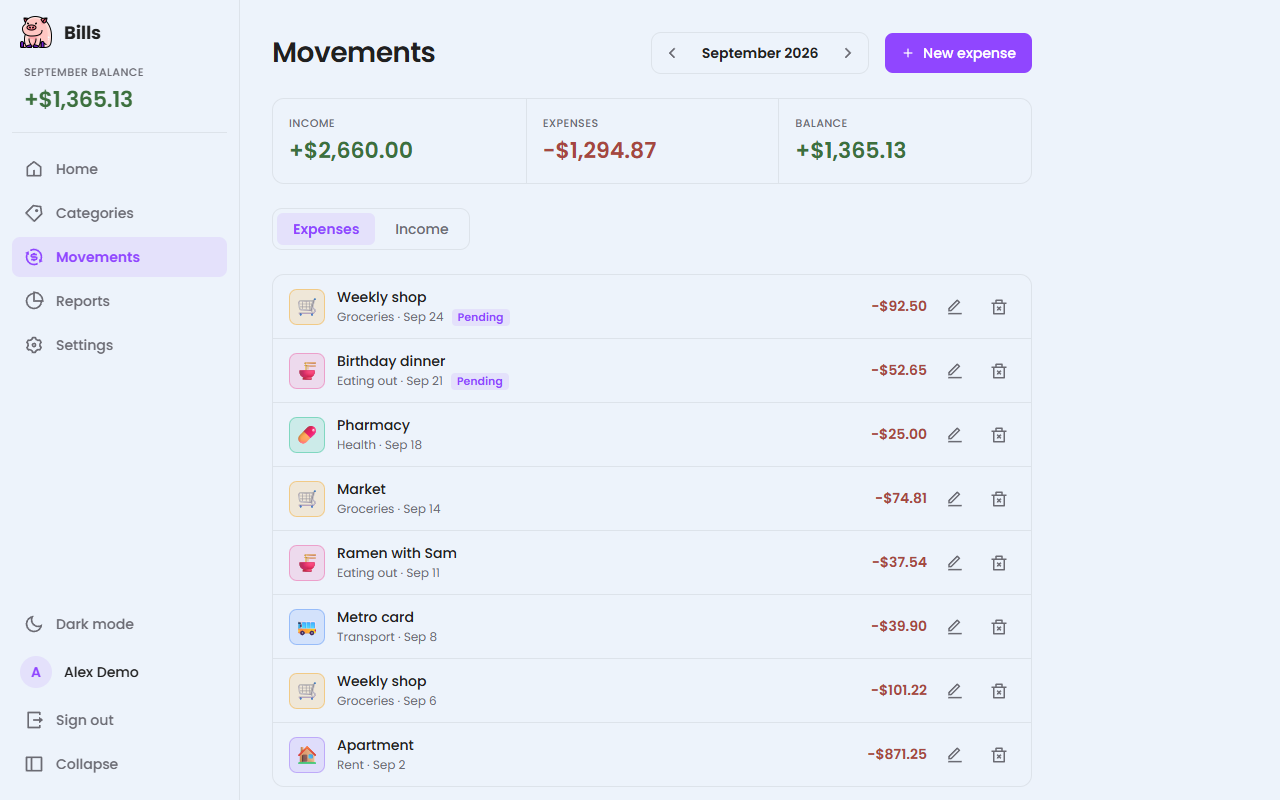
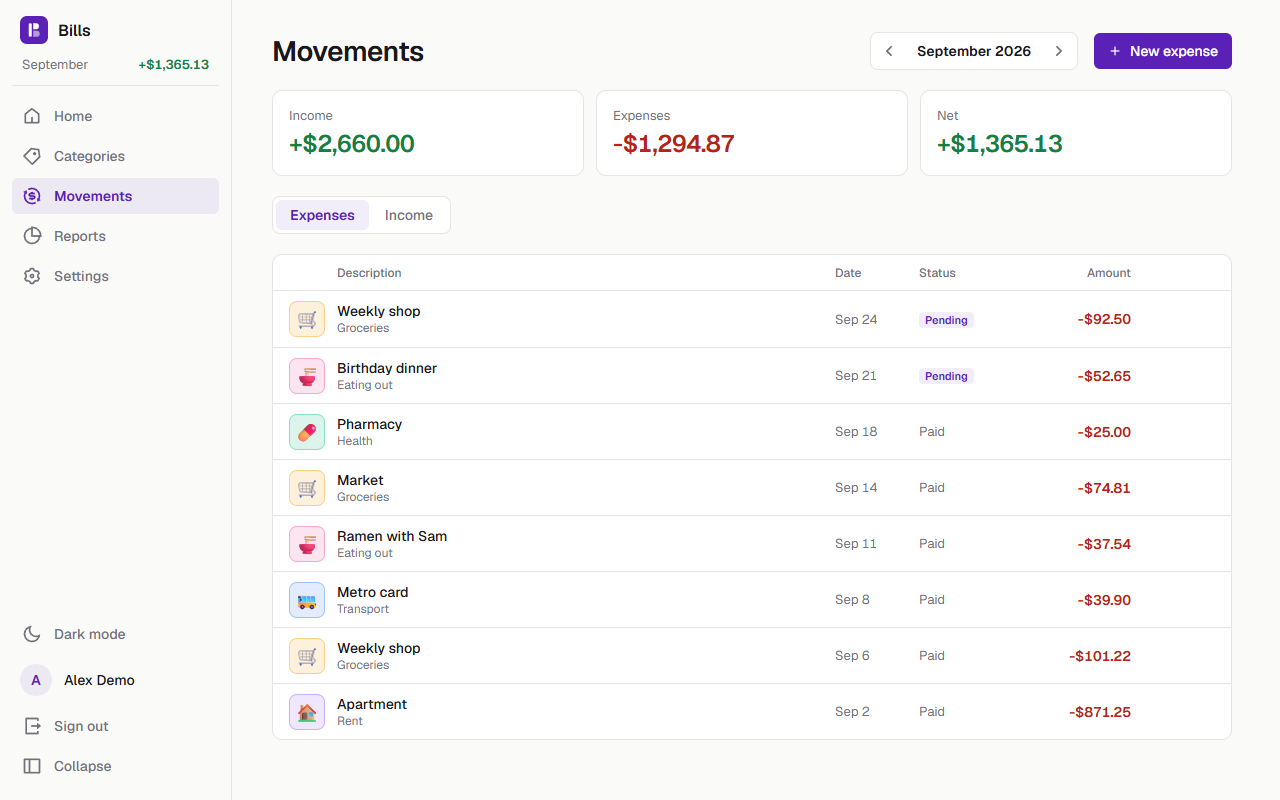
Refresh screenshots and features for the redesign

diff --git a/README.md b/README.md
@@ -9,8 +9,8 @@ A personal expense tracker: sign in with Google, organize your categories, log i
 | Movements | Reports |
 |---|---|
 | ![Movements by month](docs/screenshots/movements.png) | ![Reports: 6-month trend and breakdown by category](docs/screenshots/reports.png) |
-| **Settings** | **Sign in** |
-| ![Settings: name, currency, delete account](docs/screenshots/settings.png) | ![Sign-in page with feature carousel](docs/screenshots/login.png) |
+| **Categories** | **Settings** |
+| ![Categories grid with this month's totals](docs/screenshots/categories.png) | ![Settings: name, currency, appearance, delete account](docs/screenshots/settings.png) |
 
 <details>
 <summary>Dark theme</summary>
@@ -19,29 +19,37 @@ A personal expense tracker: sign in with Google, organize your categories, log i
 
 </details>
 
+<details>
+<summary>Sign in</summary>
+
+![Sign-in page with feature carousel](docs/screenshots/login.png)
+
+</details>
+
 <sub>Screenshots use demo data.</sub>
 
 ## Features
 
 - **Google sign-in** via Supabase Auth. Each account only sees its own data (Postgres row-level security).
-- **Home**: what's left of this month's income, a 6-month trend, recent movements and top categories.
-- **Categories** for income and expenses, with emoji and color.
-- **Movements** by month: amount, category, date, description, paid/pending. Monthly income, expense and balance totals.
+- **Home**: what's left of this month's income, this month's spending vs. last month day by day, recent movements, what's still **to pay** (settle it in one click) and top categories.
+- **Categories** for income and expenses, with emoji, color and this month's total.
+- **Movements** by month: amount, category, date, description, paid/pending. Monthly income, expense and net totals.
 - **Reports**: 6-month income vs. expense trend and a ranked breakdown by category, each with an accessible table view.
 - **Settings**: display name, currency (formats every amount), and self-service account deletion.
-- **Light / dark theme**, following the OS preference until you pick one; the choice syncs across devices.
+- **Appearance**: Light, Dark or System (follows the OS live); light/dark choices sync across devices.
+- **Motion** that respects the OS "reduce motion" setting: figures count, charts draw, lists and pages transition.
 - Responsive: sidebar on desktop, bottom bar on mobile.
 
 ## Stack
 
 | Layer | Tech |
 |---|---|
-| UI | React 19, Vite, react-router 7, styled-components 6, react-icons |
+| UI | React 19, Vite, react-router 7, styled-components 6, motion, react-icons, Geist |
 | State | TanStack Query (server data), Zustand (session, theme, selected month) |
 | Backend | Supabase: Auth (Google OAuth) + PostgreSQL with RLS |
 | Hosting | Vercel (static SPA) + Supabase free tier |
 
-Charts and the login carousel are plain CSS — no chart or carousel libraries.
+Charts are plain SVG/CSS and the login carousel uses CSS scroll-snap — no chart or carousel libraries. Animations use `motion`.
 
 ## Run locally
 
@@ -75,6 +83,8 @@ Run the files in `supabase/migrations/` in order in the Supabase SQL Editor. `20
 Every table has a `user_id` and RLS policies limiting access to `auth.uid()`.
 
 `20260927000000_settings.sql` makes `profiles.theme` nullable (null = follow the OS) and adds `delete_account()`, a `security definer` function that deletes the caller's auth user (cascading to their data).
+
+`20260928000000_category_constraints.sql` makes category names unique per user and type regardless of case, and bounds the icon length.
 
 ### Google sign-in
 
